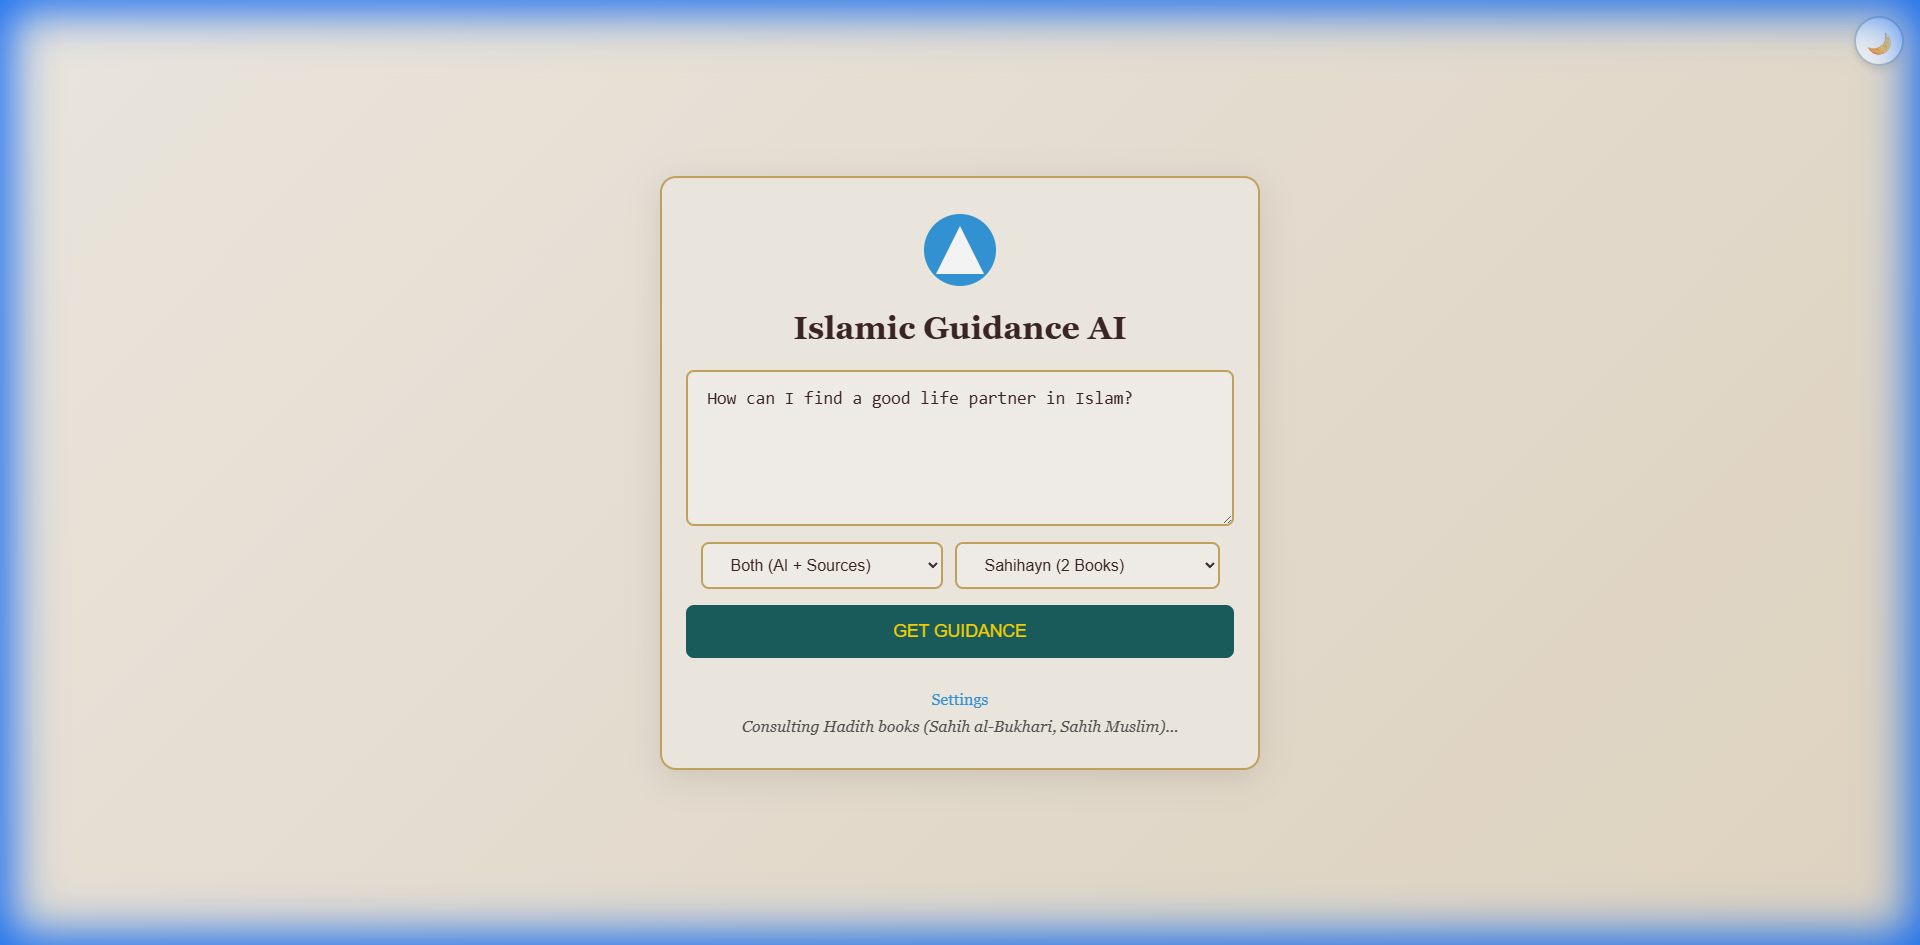
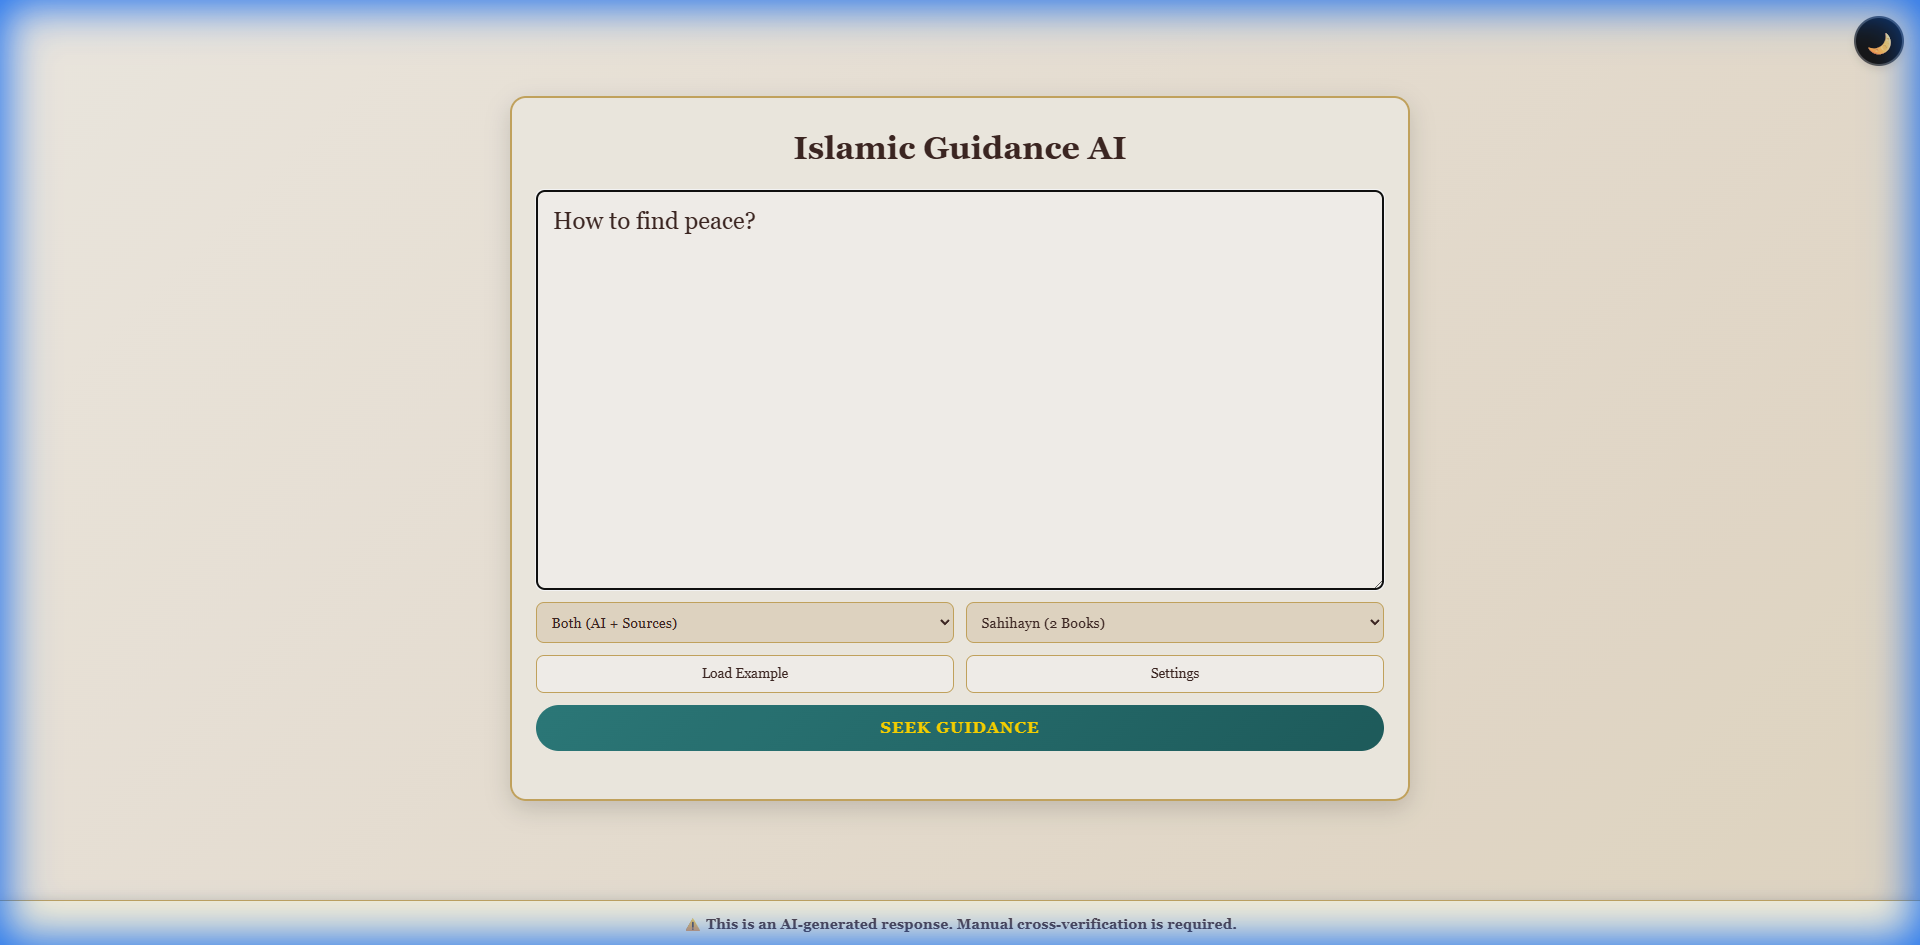
feat: Add v 3.0.0 FastAPI backend for AI-powered Islamic guidance with Gemini AI, keyword extraction, and rate limiting, along with new UI screenshots and updated documentation.

diff --git a/backend/main.py b/backend/main.py
@@ -645,7 +645,7 @@ def validate_response_size(data: dict, max_size_bytes: int = 4_500_000) -> dict:
 app = FastAPI(
     title="Islamic Guidance AI",
     description="AI-powered Islamic guidance using Quran and Hadith",
-    version="2.1.0",
+    version="3.0.0",
     lifespan=lifespan
 )
 
@@ -740,7 +740,7 @@ async def health_check():
     health_status = {
         "status": "healthy",
         "service": "IslamicGuideAI",
-        "version": "2.1.0",
+        "version": "3.0.0",
         "environment": "serverless" if IS_SERVERLESS else "development",
         "checks": {}
     }
@@ -803,7 +803,7 @@ async def root():
     return {
         "status": "ok",
         "service": "IslamicGuideAI",
-        "version": "2.1.0",
+        "version": "3.0.0",
         "environment": "serverless" if IS_SERVERLESS else "development",
         "ai_model": "gemini-2.0-flash-exp",
         "keyword_extractor": "YAKE" if YAKE_AVAILABLE else "Custom",

diff --git a/README.md b/README.md
@@ -74,15 +74,23 @@ islamic-guidance-ai/
 ├── backend/                  # FastAPI application
 │   ├── main.py              # Main API routes
 │   ├── services.py          # Quran/Hadith search
-│   └── api_parsers.py       # API response parsers
+│   ├── keyword_extractor.py # Custom keyword extraction
+│   ├── cache.py             # Caching logic
+│   ├── utils.py             # Utility functions
+│   └── fetch_models.py      # Model fetching script
 ├── frontend/                 # Static web application
 │   ├── index.html           # Main page
 │   ├── settings.html        # Settings page
 │   ├── styles.css           # Styles
 │   ├── script.js            # Main logic
-│   └── settings.js          # Settings logic
+│   ├── settings.js          # Settings logic
+│   └── public/              # Public assets
 ├── docs/                     # Documentation
 │   └── VERCEL_DEPLOYMENT.md # Deployment guide
+├── tests/                    # Test suite
+│   ├── backend/             # Backend tests
+│   └── frontend/            # Frontend tests
+├── screenshots/              # Project screenshots
 ├── requirements.txt          # Python dependencies
 ├── vercel.json              # Vercel configuration
 └── .env.example             # Environment template
@@ -151,6 +159,38 @@ islamic-guidance-ai/
 
 ---
 
+### ❓ Help & Credits
+
+#### Help Modal
+![Help Modal](screenshots/help_modal.png)
+
+#### Credits Modal
+![Credits Modal](screenshots/credits_modal.png)
+
+---
+
+### 📱 UI/UX Response
+
+![UI Response](screenshots/external_response.png)
+
+**Response Features:**
+- **Rich Formatting**: Clear distinction between AI advice and citations.
+- **Source Highlighting**: Quran verses and Hadiths are clearly marked.
+- **Interactive Links**: Direct access to source material.
+
+---
+
+### 💡 Load Example Feature
+
+![Load Example](screenshots/load_example.png)
+
+**Ease of Use:**
+- **One-Click Examples**: Pre-built prompts for common life situations.
+- **Instant Loading**: Populates query and settings instantly.
+- **Variety**: Covers mental health, relationships, finance, and more.
+
+---
+
 ### ✨ Key UI/UX Features
 
 - **🎨 Multiple Themes**: 3 distinct visual styles to choose from
@@ -163,6 +203,92 @@ islamic-guidance-ai/
 - **🎯 Intuitive Layout**: Logical flow from input to results
 - **🔍 Clear Typography**: Readable fonts optimized for each theme
 
+## 🔌 API Endpoints
+
+The application provides a RESTful API powered by FastAPI.
+
+### Core Endpoints
+
+#### `POST /api/guidance`
+Get AI guidance with Quran/Hadith citations.
+
+**Request Body:**
+```json
+{
+  "query": "How to deal with anxiety?",
+  "source": "both",
+  "hadith_collection": ["eng-bukhari", "eng-muslim"]
+}
+```
+
+**Response:**
+```json
+{
+  "answer": "Islam teaches us to turn to Allah...",
+  "citations": [
+    {
+      "title": "Quran 13:28",
+      "url": "https://quran.com/13:28"
+    }
+  ]
+}
+```
+
+#### `GET /api/quran/search`
+Search Quran verses by keyword.
+- **URL**: `/api/quran/search?keyword=patience`
+- **Response**: JSON array of verses.
+
+#### `GET /api/hadith/search`
+Search Hadith collections by topic.
+- **URL**: `/api/hadith/search?topic=prayer&collections=eng-bukhari`
+- **Response**: JSON array of hadiths.
+
+### Settings & Configuration
+
+#### `POST /api/save-settings`
+Save application settings.
+
+**Request Body:**
+```json
+{
+  "apiKey": "AIzaSy...",
+  "theme": "traditional",
+  "geminiModel": "gemini-2.0-flash-exp"
+}
+```
+
+#### `POST /api/log`
+Receive frontend logs.
+
+**Request Body:**
+```json
+{
+  "level": "INFO",
+  "message": "User clicked search button",
+  "timestamp": "2025-11-23T12:00:00"
+}
+```
+
+| Method | Endpoint | Description |
+| :--- | :--- | :--- |
+| `GET` | `/` | Root endpoint returning service info |
+| `GET` | `/api/health` | Check API health status and dependencies |
+| `POST` | `/api/guidance` | Get AI guidance with Quran/Hadith citations |
+| `GET` | `/api/quran/search` | Search Quran verses by keyword |
+| `GET` | `/api/hadith/search` | Search Hadith collections by topic |
+| `GET` | `/api/get-settings` | Retrieve current application settings |
+| `POST` | `/api/save-api-key` | Save API key to environment |
+| `POST` | `/api/log` | Receive frontend logs |
+| `GET` | `/api/models` | List available Gemini models |
+| `GET` | `/api/models/current` | Get currently selected model |
+| `POST` | `/api/models/set` | Set active Gemini model |
+| `GET` | `/api/example-prompt` | Get a random example prompt |
+| `GET` | `/api/test-keywords` | Test keyword extraction logic |
+| `POST` | `/api/admin/clear-cache` | Clear server-side cache |
+| `GET` | `/api/admin/run-tests` | Run backend health checks |
+
+
 ## 🛠 Technology Stack
 
 - **Backend**: Python, FastAPI, Uvicorn
@@ -173,13 +299,14 @@ islamic-guidance-ai/
 
 ## 📝 Environment Variables
 
-| Variable | Description | Required |
-|----------|-------------|----------|
-| `GEMINI_API_KEY` | Google Gemini API key | Yes |
-| `API_KEY` | Alias for Gemini API key | No |
-| `THEME` | Default theme (light/dark) | No |
-| `GEMINI_MODEL` | Default Gemini model | No |
-| `PORT` | Port number | No |
+| Variable         | Description               | Required |
+|------------------|---------------------------|----------|
+| `GEMINI_API_KEY` | Google Gemini API key     | Yes      |
+| `API_KEY`        | Alias for Gemini API key  | No       |
+| `THEME`          | Default theme (light/dark)| No       |
+| `GEMINI_MODEL`   | Default Gemini model      | No       |
+| `PORT`           | Port number               | No       |
+
 
 ## 🧪 Testing
 
@@ -213,23 +340,10 @@ Once running, visit:
 - ✅ API key saving endpoint is disabled for security
 - ✅ Static files served by Vercel CDN
 
-### For Development (Local)
-- ✅ API keys saved to `.env` file
-- ✅ Logs saved to `logs/` directory
-- ✅ Hot reload enabled
-- ✅ Static files served by FastAPI
-
-## 🤝 Contributing
-
-Contributions are welcome! Please feel free to submit a Pull Request.
-
-## 📄 License
-MIT License
-Copyright (c) 2025 Haseeb Mir
 
 ## Version
 See `CHANGELOG.md` for version history.
-Current version: 2.1.1
+Current version: 3.0.0
 
 ## 📜 Credits
 

diff --git a/CHANGELOG.md b/CHANGELOG.md
@@ -2,6 +2,18 @@
 
 All notable changes to the Islamic Guidance AI project will be documented in this file.
 
+## [3.0.0] - 2025-11-23 - MAJOR DOCUMENTATION & UI UPDATE
+
+### 📸 Documentation & Screenshots
+- ✅ Updated all screenshots to reflect the latest "Traditional Islamic" theme
+- ✅ Added comprehensive API Endpoints documentation in README
+- ✅ Added "Help" and "Credits" modal screenshots
+- ✅ Updated project structure documentation
+
+### 🚀 Versioning
+- ✅ Bumped major version to 3.0.0
+- ✅ Updated backend API version to 3.0.0
+
 ## [2.1.1] - 2025-11-23 - UI/UX & DOCUMENTATION UPDATE
 
 ### 🎨 Frontend UI/UX Improvements
